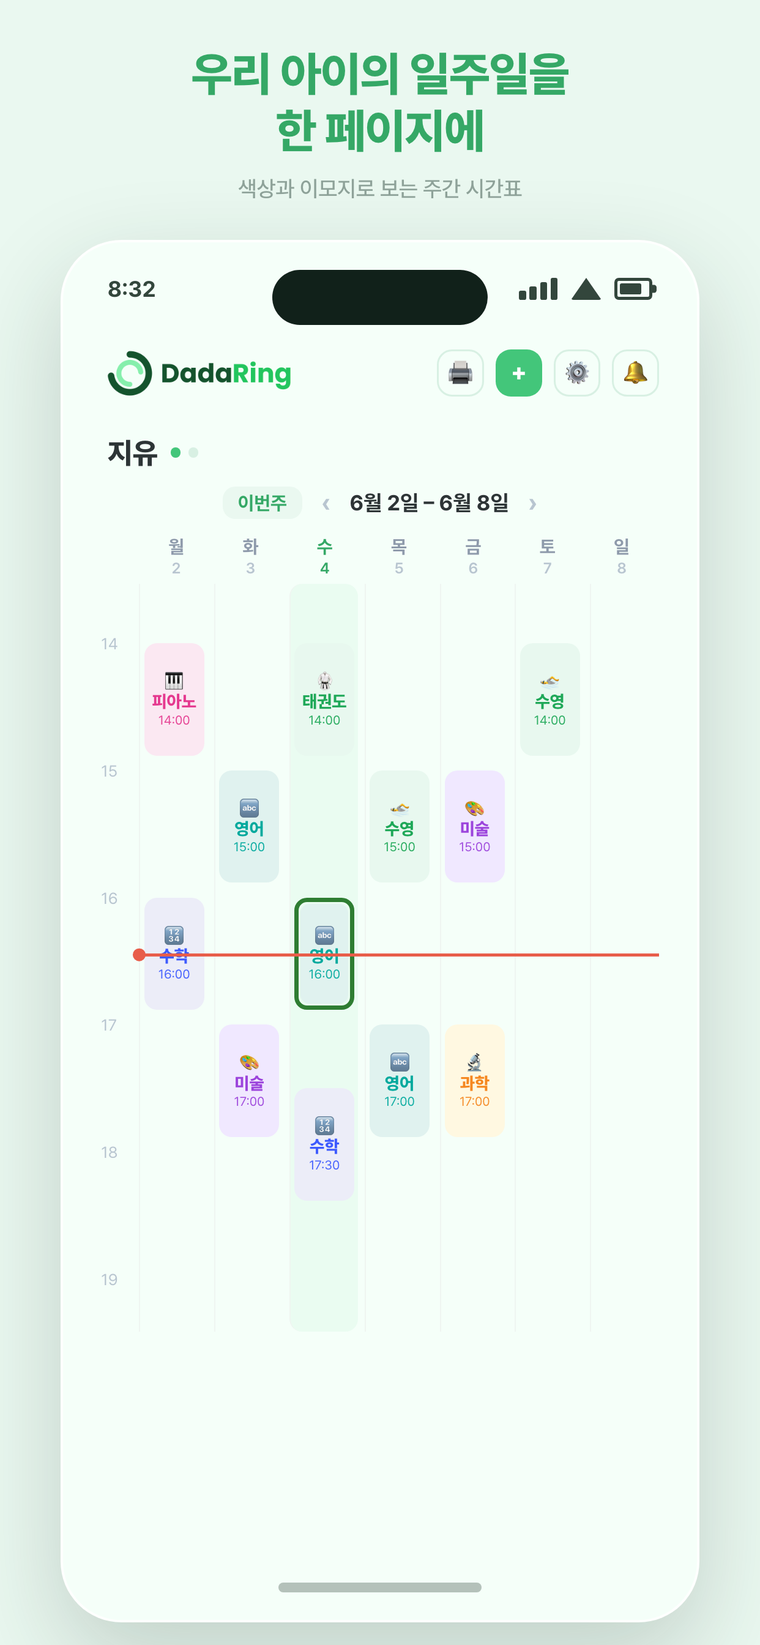
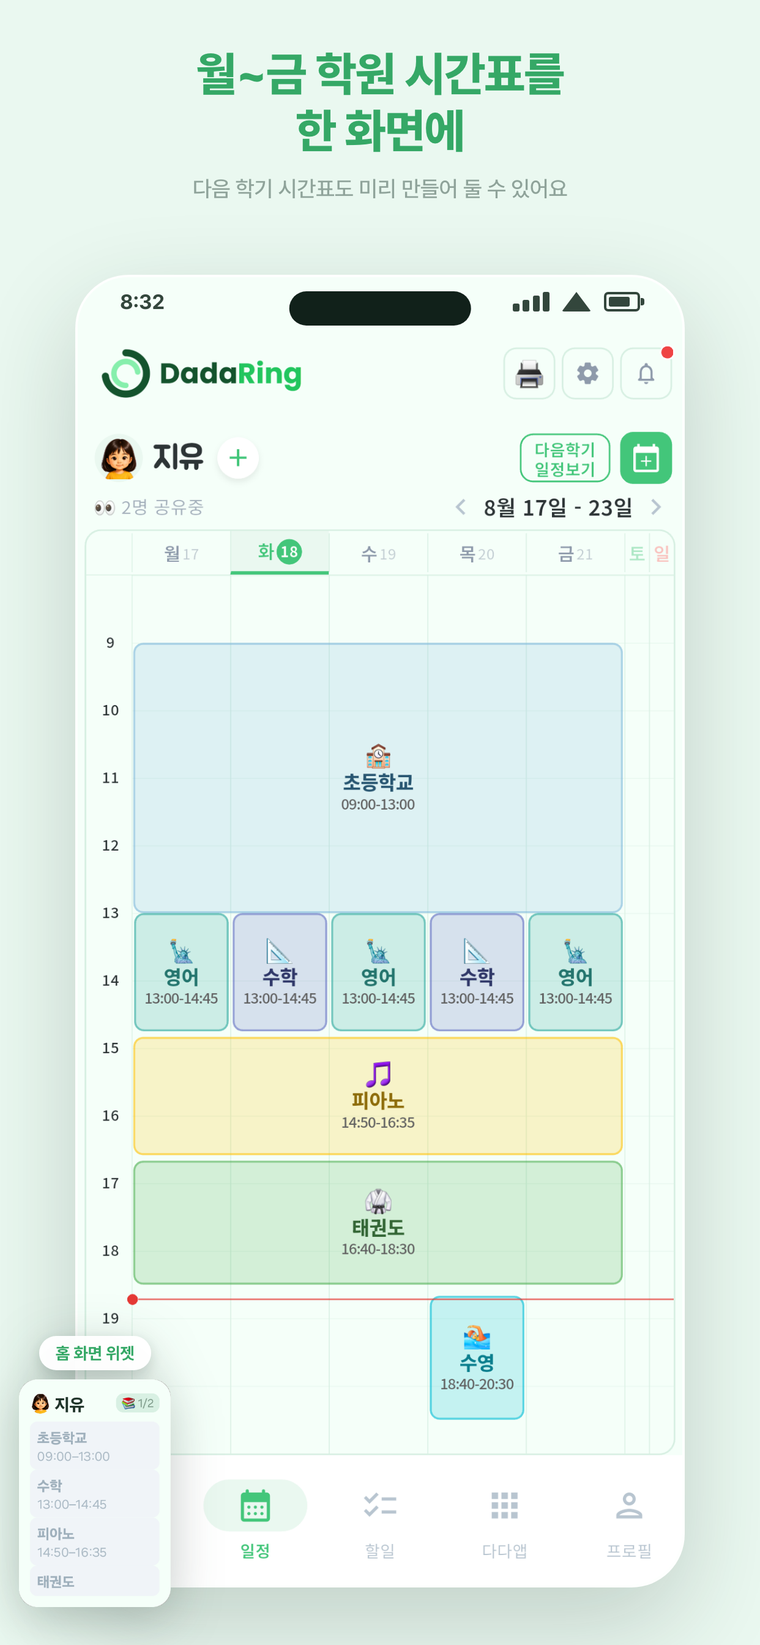
feat(home): 소개·기능·스크린샷을 최신 기능 기준으로 갱신
그동안 들어온 공공 클래스 오픈 알림, 아이 AI 아이콘, 다음 학기 시간표,
요일 반복 숙제가 홈페이지에 빠져 있었다. 기능 그리드에 두 카드를 신설하고
기존 카드 문구를 실제 동작에 맞게 고쳤다(할일의 "AI가 제목·날짜 정리"는
지금은 알림장에서 만들어지는 흐름이라 그렇게 바꿈).

스크린샷 쇼케이스는 합성 목업 대신 실제 기기 캡처로 만든 app_fig-v5 컷을
760px 로 리사이즈해 교체했다. 더 이상 쓰지 않는 shot-diary/home/notice/widget
4종은 삭제.

JSON-LD featureList 도 8 → 11개로 갱신해 LLM·검색이 읽는 사실과 화면을 맞췄다.

diff --git a/index.html b/index.html
@@ -4,10 +4,10 @@
   <meta charset="UTF-8">
   <meta name="viewport" content="width=device-width, initial-scale=1.0">
   <title>DADAring - 아이의 하루를 스마트하게</title>
-  <meta name="description" content="아이의 하루를 스마트하게. 학원 일정, 알림장, AI 일기, 영어독서 리포트, 보호자 공유까지 다다링 하나로.">
+  <meta name="description" content="아이의 하루를 스마트하게. 학원 시간표와 학원비, 가정통신문을 할일로 정리하는 알림장 AI, 우리 동네 공공 클래스 추천, 가족 공유까지 다다링 하나로.">
   <meta name="naver-site-verification" content="d255fc071bbcc49537e9a34d27a56e95cbfadc52">
   <meta property="og:title" content="DADAring - 아이의 하루를 스마트하게">
-  <meta property="og:description" content="아이의 하루를 스마트하게. 학원 일정, 알림장, AI 일기, 영어독서 리포트, 보호자 공유까지 다다링 하나로.">
+  <meta property="og:description" content="아이의 하루를 스마트하게. 학원 시간표와 학원비, 가정통신문을 할일로 정리하는 알림장 AI, 우리 동네 공공 클래스 추천, 가족 공유까지 다다링 하나로.">
   <meta property="og:type" content="website">
   <meta property="og:url" content="https://dadaring.com">
   <script type="application/ld+json">
@@ -28,7 +28,7 @@
           "https://apps.apple.com/kr/app/id6769691549",
           "https://play.google.com/store/apps/details?id=com.dadaring.app"
         ],
-        "description": "다다링은 아이의 학원·학교 일정을 관리하는 한국 학부모용 앱입니다. 요일별 반복되는 주간 시간표, 학원비 결제일과 미납 관리, 가정통신문 사진을 할 일로 자동 정리하는 알림장 AI, 영어 AR 성적 그래프, 홈 화면 위젯, 배우자·조부모와의 일정 공유를 한 앱에서 제공합니다.",
+        "description": "다다링은 아이의 학원·학교 일정을 관리하는 한국 학부모용 앱입니다. 요일별 반복되는 주간 시간표와 다음 학기 미리 만들기, 학원비 결제일과 미납 관리, 가정통신문 사진을 할 일로 자동 정리하는 알림장 AI, 서울 25개 자치구 공공 클래스 오픈 알림과 AI 추천, 영어 AR 성적 그래프, 홈 화면 위젯, 배우자·조부모와의 일정 공유를 한 앱에서 제공합니다.",
         "offers": [
           { "@type": "Offer", "name": "무료", "price": "0", "priceCurrency": "KRW",
             "description": "1인 · AI 월 0.1M 토큰 · 저장공간 1GB. 기능 잠금 없이 모든 기능을 무료로 사용할 수 있으며, 한도는 AI 사용량과 저장공간에만 적용됩니다." },
@@ -40,14 +40,17 @@
             "description": "최대 6명 · AI 월 12M 토큰 · 저장공간 200GB (월 구독)" }
         ],
         "featureList": [
-          "주간 시간표 — 요일별 반복 일정, 이번 주만 휴강·시간 변경",
+          "주간 시간표 — 요일별 반복 일정, 이번 주만 휴강·시간 변경, 다음 학기 시간표 미리 만들기",
           "학원비 관리 — 수강료·결제일 등록 시 매달 자동 생성, 미납·완료 표시, 월간·연간 추이",
           "알림장 AI — 가정통신문 사진에서 날짜·준비물·신청 링크를 할 일로 자동 추출",
-          "AR 영어독서 — 영어학원 AR 평가서 사진으로 성장 그래프·또래 비교",
+          "공공 클래스 오픈 알림 — 서울 25개 자치구 무료·저렴한 클래스를 모아 보고, 아이 나이·지역·빈 시간에 맞춰 AI 추천",
+          "숙제 관리 — 요일별 반복 숙제 자동 생성, 진도율과 미완료 표시",
+          "AR 영어독서 — 영어학원 AR 평가서 사진으로 성장 그래프·또래 비교·ZPD 추천 도서",
           "홈 화면 위젯 — 앱을 열지 않고 오늘 일정과 주간 시간표 확인",
           "가족 공유 — 배우자·조부모와 일정·숙제·학원비 공유, 카톡 링크 초대",
-          "다이어리 — 사진·동영상 기록과 AI 글쓰기 도움",
-          "할 일 관리 — 월간 캘린더와 알림"
+          "아이 AI 아이콘 — 아이 사진으로 닮은 캐릭터 아이콘 생성(사진은 저장하지 않음)",
+          "다이어리 — 사진·동영상 기록과 AI 글쓰기 도움·번역문 보기",
+          "할 일 관리 — 월간 캘린더와 시작 전 알림"
         ],
         "publisher": { "@id": "https://www.dadaring.com/#org" }
       },
@@ -100,10 +103,10 @@
 
 <!-- Hero -->
 <section class="hero">
-  <div class="hero-badge">✨ NEW · 일기 & AR 영어독서 리포트 출시</div>
+  <div class="hero-badge">✨ NEW · 공공 클래스 오픈 알림 & 아이 AI 아이콘</div>
   <h1>아이의 하루를<br><span class="accent">스마트하게</span></h1>
   <p class="subtitle">
-    학원 일정·알림장·일기·영어독서 리포트까지<br>
+    학원 시간표·학원비·알림장 AI·공공 클래스까지<br>
     <strong>다다링</strong> 하나로.
   </p>
   <div class="store-buttons">
@@ -123,43 +126,31 @@
 <!-- Screenshots showcase -->
 <section class="shots" id="screenshots">
   <h2>한눈에 보는 다다링</h2>
-  <p class="section-sub">일기·영어독서 리포트부터 위젯·일정·학원비까지, 매일 쓰는 화면들.</p>
+  <p class="section-sub">시간표·학원비·공공 클래스부터 숙제·공유·영어독서까지, 매일 쓰는 화면들.</p>
   <div class="shots-scroll">
     <figure class="shot shot-hl">
-      <img src="images/shot-diary.png" alt="일기 — AI와 함께 쓰는 아이의 일기, 사진에 어울리는 한 줄까지" loading="lazy" width="760" height="1645">
-      <figcaption>일기 <span class="cap-new">NEW</span></figcaption>
-    </figure>
-    <figure class="shot shot-hl">
-      <img src="images/shot-ar.png" alt="AR 영어독서 리포트 — 평가서를 사진으로 찍으면 성장 그래프와 AI 분석까지" loading="lazy" width="760" height="1645">
-      <figcaption>AR 영어독서 <span class="cap-new">NEW</span></figcaption>
-    </figure>
-    <figure class="shot">
-      <img src="images/shot-notice.png" alt="알림장 — 사진·글만 올리면 챙길 할일이 자동으로 정리돼요" loading="lazy" width="760" height="1645">
-      <figcaption>알림장</figcaption>
-    </figure>
-    <figure class="shot">
-      <img src="images/shot-widget.png" alt="홈 화면 위젯 — 오늘 일정도 주간 시간표도 한눈에" loading="lazy" width="760" height="1645">
-      <figcaption>홈 화면 위젯</figcaption>
-    </figure>
-    <figure class="shot">
-      <img src="images/shot-home.png" alt="오늘 일정·할일·학원비를 한 화면에" loading="lazy" width="760" height="1645">
-      <figcaption>오늘 한눈에</figcaption>
-    </figure>
-    <figure class="shot">
-      <img src="images/shot-schedule.png" alt="색상과 이모지로 직관적인 주간 시간표" loading="lazy" width="760" height="1645">
+      <img src="images/shot-schedule.png" alt="주간 시간표 — 월요일부터 금요일까지 학원과 학교 일정이 색상 블록으로 한 화면에 정리된 다다링 일정 탭" loading="lazy" width="760" height="1645">
       <figcaption>주간 시간표</figcaption>
     </figure>
-    <figure class="shot">
-      <img src="images/shot-todo.png" alt="아이가 스스로 체크하는 숙제와 할일 관리" loading="lazy" width="760" height="1645">
-      <figcaption>숙제·할일</figcaption>
+    <figure class="shot shot-hl">
+      <img src="images/shot-class.png" alt="공공 클래스 오픈 알림 — 서울 자치구의 무료 클래스를 아이에 맞춰 AI가 추천하고 추천 이유를 함께 보여주는 화면" loading="lazy" width="760" height="1645">
+      <figcaption>공공 클래스 <span class="cap-new">NEW</span></figcaption>
     </figure>
     <figure class="shot">
-      <img src="images/shot-price.png" alt="학원별 납부일과 미납을 한눈에 관리" loading="lazy" width="760" height="1645">
+      <img src="images/shot-price.png" alt="학원비 관리 — 이번 달 총액을 납부와 미납으로 나눠 보여주고 학원별 결제 상태를 표시하는 화면" loading="lazy" width="760" height="1645">
       <figcaption>학원비 관리</figcaption>
     </figure>
     <figure class="shot">
-      <img src="images/shot-share.png" alt="배우자·조부모·아이까지 일정 공유" loading="lazy" width="760" height="1645">
+      <img src="images/shot-todo.png" alt="숙제와 할일 — 요일별 숙제 진도율과 월간 달력에 정리된 할일" loading="lazy" width="760" height="1645">
+      <figcaption>숙제·할일</figcaption>
+    </figure>
+    <figure class="shot">
+      <img src="images/shot-share.png" alt="가족 공유 — 카톡 링크로 초대해 배우자·조부모와 아이 일정을 함께 보는 화면" loading="lazy" width="760" height="1645">
       <figcaption>가족 공유</figcaption>
+    </figure>
+    <figure class="shot">
+      <img src="images/shot-ar.png" alt="AR 영어독서 — 평가서 사진에서 뽑은 지표로 그린 성장 그래프와 또래 평균 비교" loading="lazy" width="760" height="1645">
+      <figcaption>AR 영어독서</figcaption>
     </figure>
   </div>
 </section>
@@ -170,13 +161,18 @@
   <p class="section-sub">아이 교육 관리에 필요한 모든 기능을 하나의 앱에 담았어요.</p>
   <div class="feature-grid">
     <div class="feature-card feature-card-hl">
-      <div class="feature-icon">📔</div>
-      <h3>일기 <span class="badge-new">NEW</span></h3>
-      <p>아이가 직접 쓰는 나만의 일기장. <strong>AI와 함께 쓰고 다듬고</strong>, 사진을 붙이면 어울리는 한 줄도 만들어줘요. 색과 이모지로 예쁘게 꾸며요.</p>
+      <div class="feature-icon">🏫</div>
+      <h3>공공 클래스 오픈 알림 <span class="badge-new">NEW</span></h3>
+      <p>서울 25개 자치구의 <strong>무료·저렴한 공공 클래스</strong>를 한곳에. 아이 나이·지역·<strong>비어 있는 시간</strong>까지 보고 AI가 골라주고, 새 클래스가 열리면 알려드려요.</p>
     </div>
     <div class="feature-card feature-card-hl">
+      <div class="feature-icon">🎨</div>
+      <h3>아이 AI 아이콘 <span class="badge-new">NEW</span></h3>
+      <p>아이 사진 한 장이면 <strong>아이를 닮은 캐릭터 아이콘</strong>을 만들어 앱 곳곳에 써요. 만화·피규어 두 가지 스타일. <strong>사진은 저장하지 않아요.</strong></p>
+    </div>
+    <div class="feature-card">
       <div class="feature-icon">📈</div>
-      <h3>AR 영어독서 리포트 <span class="badge-new">NEW</span></h3>
+      <h3>AR 영어독서 리포트</h3>
       <p>영어도서관·학원의 AR 평가서를 <strong>사진으로 찍기만 하면</strong> 지표별 성장 그래프, 또래 평균 비교, AI 분석에 수준별 추천 도서까지.</p>
     </div>
     <div class="feature-card">
@@ -192,12 +188,12 @@
     <div class="feature-card">
       <div class="feature-icon">📅</div>
       <h3>학원 일정 관리</h3>
-      <p>여러 아이의 학원 스케줄을 한 화면에서 확인. 주간 시간표로 한눈에 파악하고, 일정 변경도 간편하게.</p>
+      <p>여러 아이의 학원 스케줄을 한 화면에서 확인. 한 번 등록하면 <strong>매주 자동</strong>으로 채워지고, <strong>다음 학기 시간표도 미리</strong> 만들어 둘 수 있어요.</p>
     </div>
     <div class="feature-card">
       <div class="feature-icon">📚</div>
       <h3>숙제 관리</h3>
-      <p>아이별 숙제를 등록하고 요일별로 체크. 아이와 공유하면 아이가 직접 자기 숙제를 챙겨요.</p>
+      <p>요일마다 반복되는 숙제를 등록하면 <strong>매주 자동</strong>으로 올라와요. 진도율과 미완료 표시로 빠뜨리지 않고, 아이와 공유하면 아이가 직접 챙겨요.</p>
     </div>
     <div class="feature-card">
       <div class="feature-icon">💰</div>
@@ -212,12 +208,17 @@
     <div class="feature-card">
       <div class="feature-icon">✅</div>
       <h3>할일 관리</h3>
-      <p>챙길 일을 할일로 등록하면 AI가 제목·날짜를 자동으로 정리. 마감일 알림으로 놓치는 일 없이.</p>
+      <p>월간 달력에서 이번 달 챙길 일을 한눈에. <strong>알림장에서 만들어진 할일</strong>도 함께 모이고, 시작 몇 분 전 알림으로 놓치지 않아요.</p>
+    </div>
+    <div class="feature-card">
+      <div class="feature-icon">📔</div>
+      <h3>다이어리</h3>
+      <p>하루를 기록하고 <strong>AI와 함께 글을 다듬어요</strong>. 사진·동영상을 붙이고, 쓴 글을 다른 언어로도 읽어볼 수 있어요.</p>
     </div>
     <div class="feature-card">
       <div class="feature-icon">📊</div>
       <h3>다다앱 (미니 앱)</h3>
-      <p>학원비·알림장·일기·AR 영어독서 등 우리 가족을 위한 작은 미니 앱들이 계속 추가됩니다.</p>
+      <p>학원비·공공 클래스·다이어리·AR 영어독서 등 우리 가족을 위한 작은 미니 앱들이 계속 추가됩니다.</p>
     </div>
   </div>
 </section>
